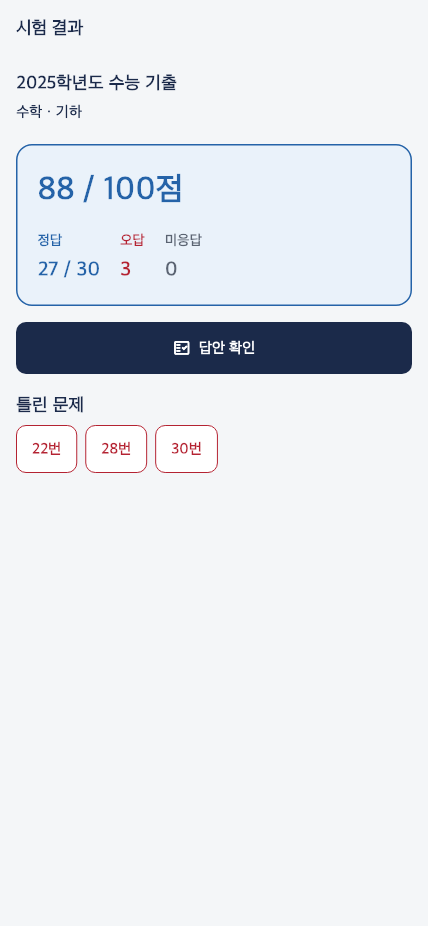
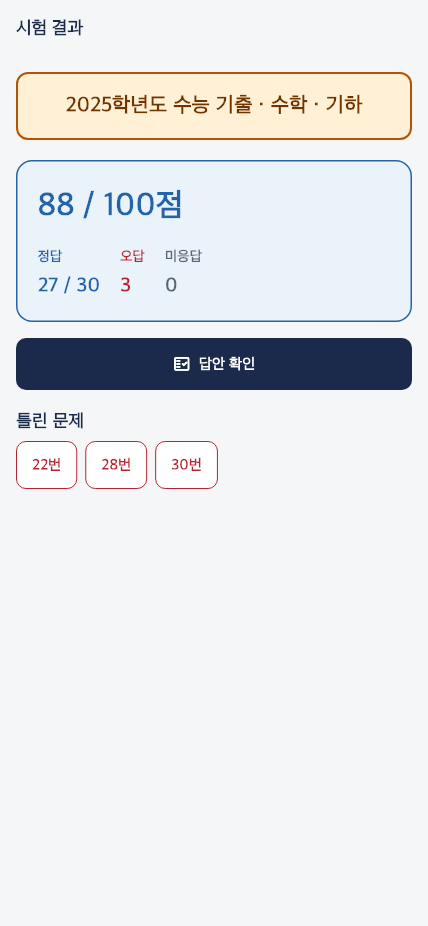
Record APP75 subject title verification and installation

Changed region(s): [[0.0304, 0.0605, 0.972, 0.514], [0.3341, 0.4536, 0.5164, 0.514]]

diff --git a/wiki/task03-result-ux-20261111.md b/wiki/task03-result-ux-20261111.md
@@ -186,3 +186,11 @@ Owner가 APP74 실기기 화면 확인 완료를 보고했다. 결과 목록과 
 - 기존 attempt.subject 사용. 과목이 없는 과거 기록은 추측하지 않고 제목만 유지.
 - UI 표시만 변경, 앞의 7항 보존 검토 그대로 적용. 원본 제목/과목/답안/점수/등급·운영 DB/RPC 불변.
 - 내부 APP75 검증·설치 영수증은 완료 후 아래 추가. APP74 보존, 스토어 미제출.
+
+
+APP75 검증·설치 완료: 관련55검사/한글 렌더4검사·analyze·Wiki PASS.
+소스 c9b4830, iOS1.0.2(75) Release62.4초/44.5MB·codesign deep/strict PASS.
+iPhone12 Pro Max 삭제 없는 설치·실행 PASS, 영수증 `.local/task03c/install75.json`, `launch75.json`.
[1 lines of base64/hex data omitted]
+APP74 보존 해시 일치. 실제 학생 제출·운영 DB/RPC·WEB·스토어 변경0.
+과목명 후속 실기기 Owner 확인 대기. Android 빌드/실기기 미실행.

diff --git a/wiki/current-status.md b/wiki/current-status.md
@@ -67,4 +67,5 @@ APP73 Owner 화면 확인 후 APP74 후속 구현: 오늘→이번 주→누적,
 회귀708개(이전 기본값 기대5개 정정 후 재검증), 렌더4개·analyze PASS.
 운영 DB/RPC·WEB·스토어 변경0. 내부APP74(1.0.2/74, source b92d2b9) 서명·iPhone 삭제 없는 설치/실행 PASS.
 Owner APP74 화면 확인 완료. APP75 후속으로 결과 목록·상세 제목에 과목명 통합 표시.
-APP74/73/72/71/67 보존. APP75 내부 검증 진행, Android 검수는 미실행.
+APP75(1.0.2/75, source c9b4830) 서명·iPhone 설치/실행 PASS, 과목명 후속 Owner 확인 대기.
+관련55/렌더4·analyze PASS. APP74/73/72/71/67 보존, Android 검수 미실행.

diff --git a/wiki/log.md b/wiki/log.md
@@ -5869,3 +5869,5 @@ APP74 source b92d2b9: iOS 서명 빌드·삭제 없는 iPhone 설치/실행 PASS
 ## 2026-11-11 — APP75 결과 제목·과목 통합
 APP74 Owner 확인 완료. 결과 목록·상세·답안 확인 제목에 저장된 과목을 함께 표시하고 별도 과목 줄 제거.
 [UI 후속](task03-result-ux-20261111.md#app75-과목명-표시-후속). 원본 데이터/채점/등급/운영 불변.
+
+APP75 source c9b4830:55검사·렌더4·analyze PASS, iPhone 서명·설치·실행 PASS. 과목명 표시 Owner 확인 대기.
